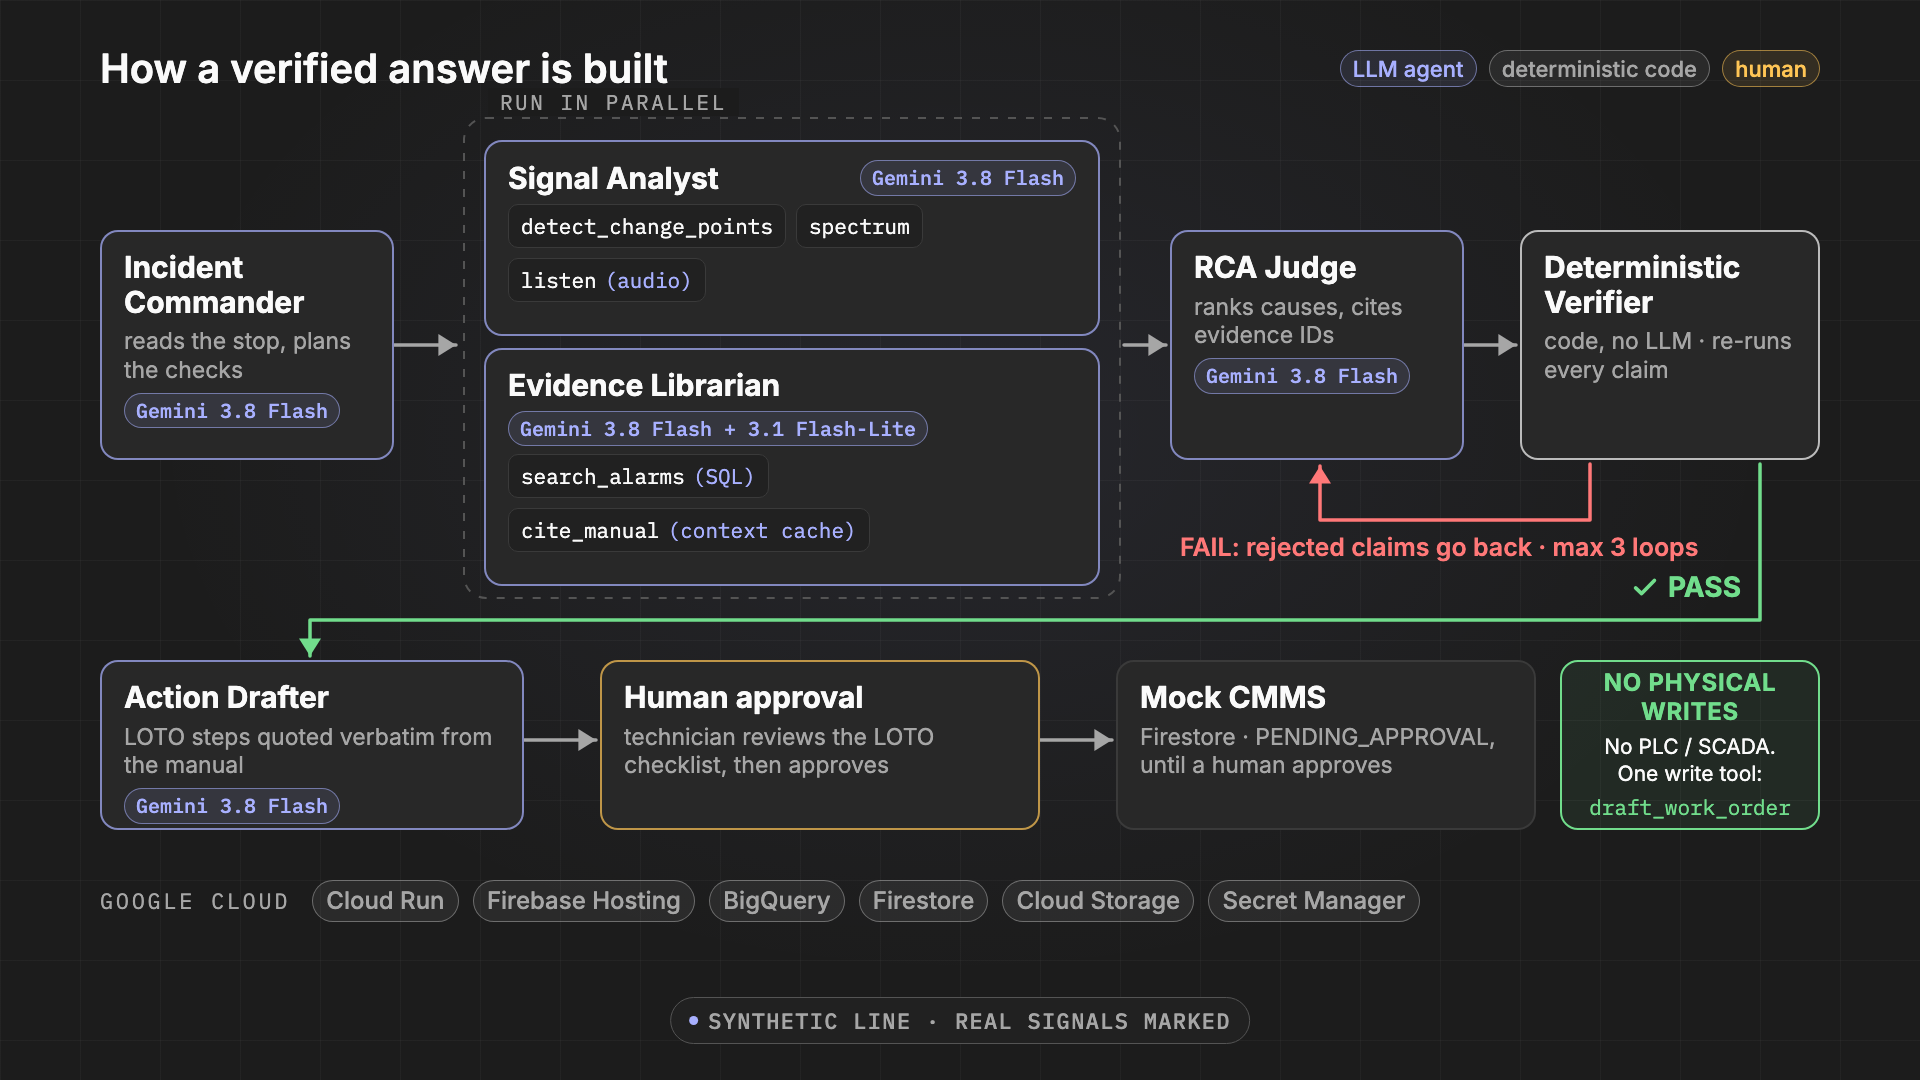
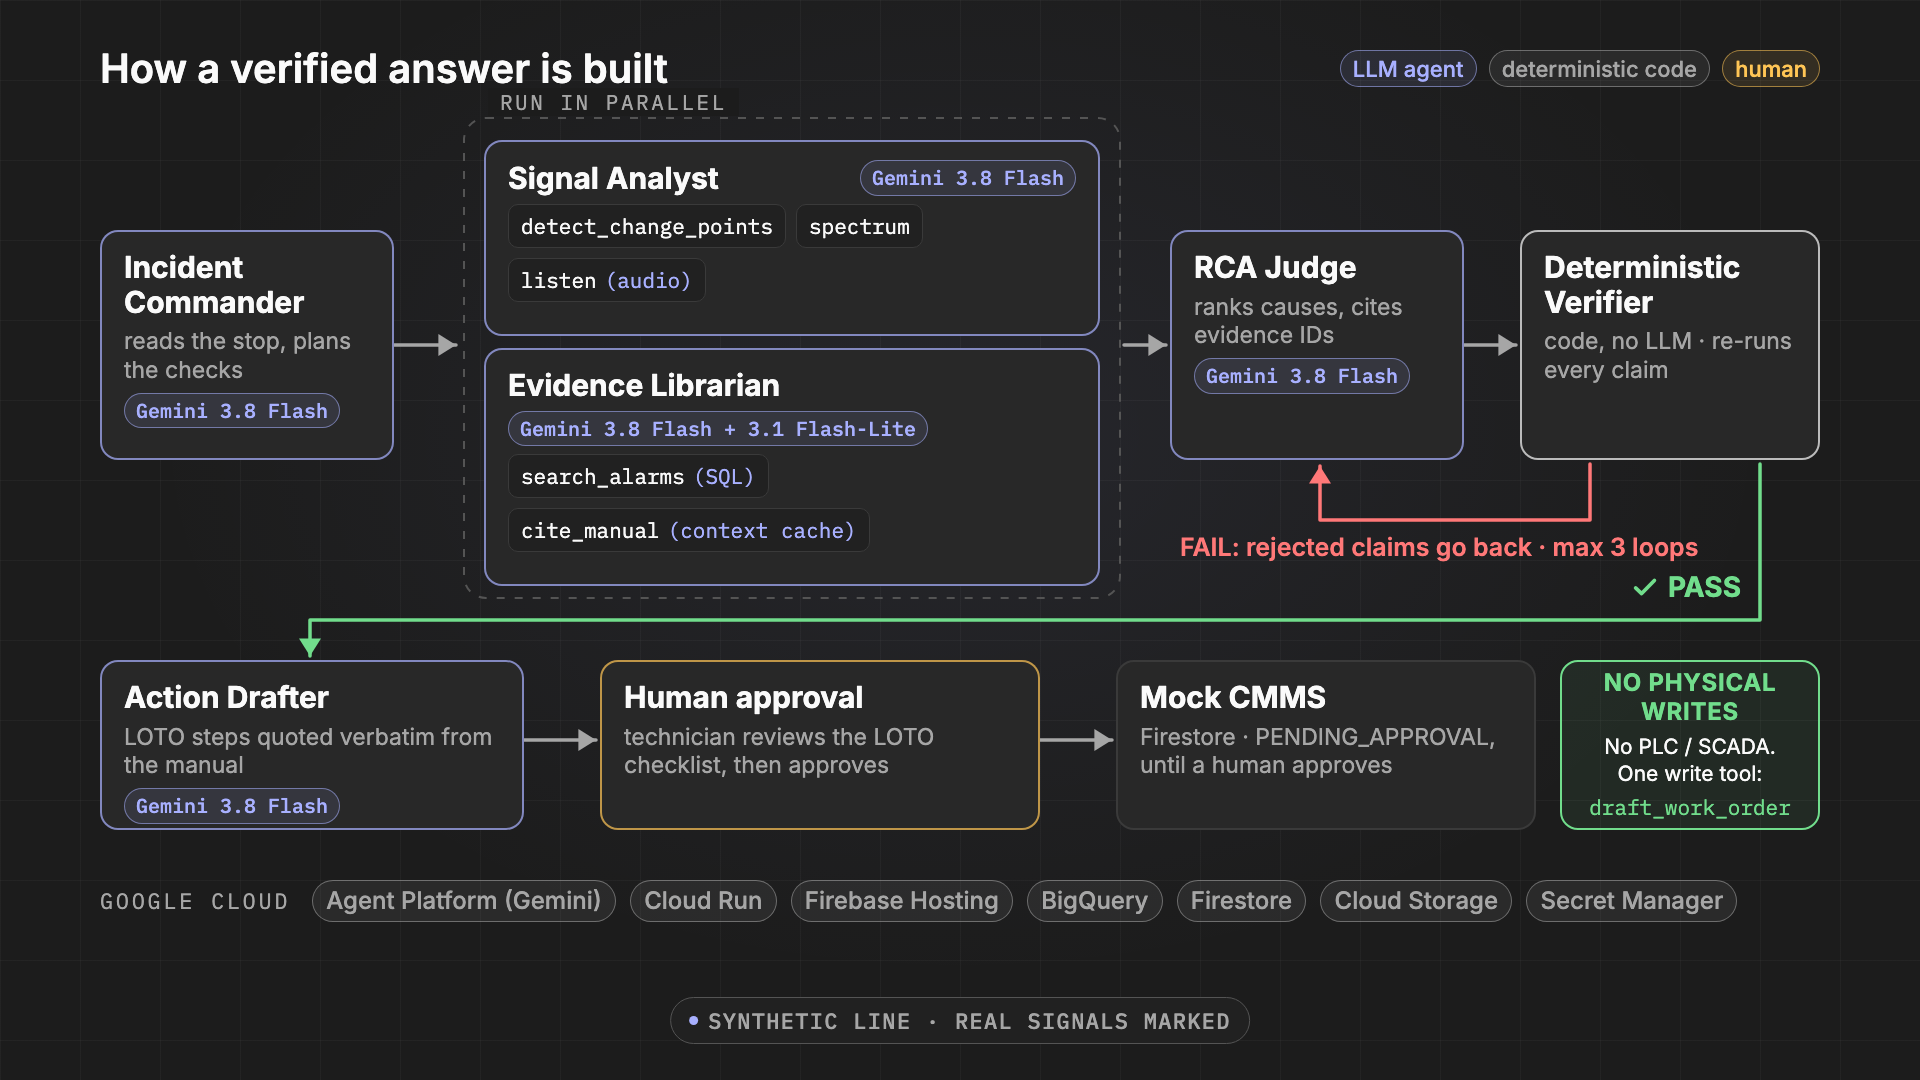
feat(video): architecture clip names Agent Platform (Gemini) among the Google Cloud services

Changed region(s): [[0.1562, 0.825, 0.9062, 0.8556]]

diff --git a/video/src/comps/Architecture.tsx b/video/src/comps/Architecture.tsx
@@ -50,7 +50,7 @@ const Tool: React.FC<{ f: number; at: number; text: string; note?: string }> = (
 export const Architecture: React.FC = () => {
   useFonts();
   const f = useCurrentFrame();
-  const cloud = ["Cloud Run", "Firebase Hosting", "BigQuery", "Firestore", "Cloud Storage", "Secret Manager"];
+  const cloud = ["Agent Platform (Gemini)", "Cloud Run", "Firebase Hosting", "BigQuery", "Firestore", "Cloud Storage", "Secret Manager"];
   return (
     <AbsoluteFill>
       <Stage>
